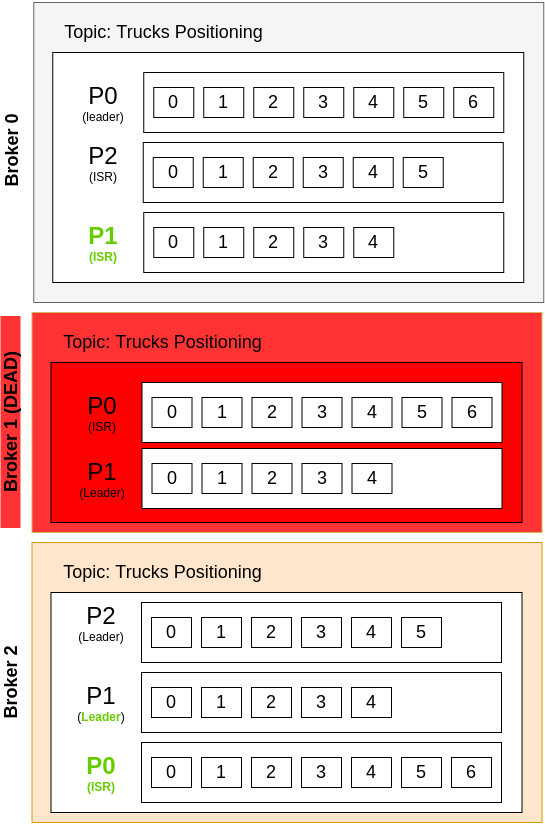
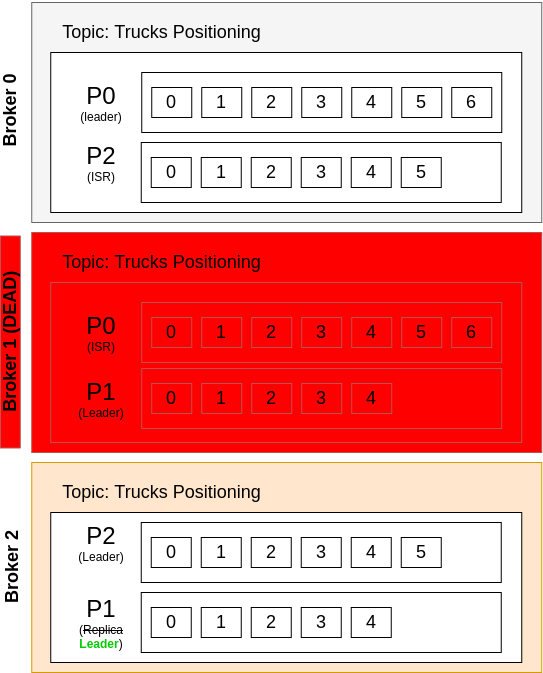
Update Kafka Concepts page (broker failure)

diff --git a/_posts/2020-10-09-Kafka-Core-Concepts.md b/_posts/2020-10-09-Kafka-Core-Concepts.md
@@ -146,7 +146,7 @@ how many partitions a topic must have - and why.
 The number of partitions in a topic is important for performance. With only
 one partition, you cannot use multiple threads to read the data - if you do,
 you'll read repetitions. But if you split your 10,000 messages in three
-partitions, for instance, then you could read data in paralellel (in three
+partitions, for instance, then you could read data in parallel (in three
 threads), and this will improve your throughput.
 
 This approach *(performance enhancement when reading data "splitted" in
@@ -208,10 +208,12 @@ from the others.
 
 
 Some notes regarding the logic of message distribution in partitions:
-- The `murmur3` algorithm is based on the number of partitions of a topic. So,
-if it's important to maintain order (and, hence, you're using Message Keys for
-that), make sure that the number of partitions of your topic do not change.
-- It is also possible to overwrite the algorithm behavior (change `murmur3` for
+- The [MurmurHash3](https://en.wikipedia.org/wiki/MurmurHash) algorithm is
+based on the number of partitions of a topic. So, if it's important to maintain
+order (and, hence, you're using Message Keys for that), make sure that the
+number of partitions of your topic do not change.
+- It is also possible to overwrite the algorithm behavior (change
+[MurmurHash3](https://en.wikipedia.org/wiki/MurmurHash) for
 something else), by overwriting the Kafka `TopicPartition` class.
 - You can also to explicit define which data goes to which partition of a topic,
 when writing the producer client. You have to use the API for that.
@@ -247,7 +249,7 @@ Let's consider the previous mentioned Trucks Positioning Topic:
 Figure 8: Topics, Partitions and Offsets In a Single Broker - revisited.
 {:.figcaption}
 
-In a single broker, if is goes down or the disk is corrupted, this topic will
+In a single broker, if it goes down or the disk is corrupted, this topic will
 be gone. But let's consider this same topic using **replication factor of two**
 with **three brokers**:
 
@@ -280,7 +282,10 @@ It is not possible to have a Replication Factor number higher than the number
 of brokers - and there will always be a single replication factor, as a minimum.
 For instance, consider **four brokers**: the replication factor must
 be `>= 1 and <= 4`. And consider a **single broker**: the same rule applies
-(replication factor `>= 1 and <= 1` => must be always `1`).
+(replication factor `>= 1 and <= 1` => must be always `1`). If you try to
+create a topic with the wrong number of replication factor, Kafka will throw
+a `org.apache.kafka.common.errors.InvalidReplicationFactorException:
+Replication factor: ? larger than available brokers: ?.`.
 {:.note}
 
 
@@ -317,6 +322,18 @@ A **In-Sync Replica** is a Replica Partition that is definitely in sync with
 the Leader Partition. In the Figure 9, the Partitions `P2` in Broker `0` and
 `P0` in Broker `1` are in sync.
 
+This information (partition, leaders, replicas and isr) can be seen when we
+describe a topic, as below:
+
+```bash
+ubuntu@ip-x:~$ ./kafka/bin/kafka-topics.sh --zookeeper zookeeper1:2181/kafka
+  --topic trucks-positioning --describe
+Topic: trucks-positioning    PartitionCount: 3       ReplicationFactor: 2    Configs:
+        Topic: teste    Partition: 0    Leader: 0       Replicas: 0,1   Isr: 0,1
+        Topic: teste    Partition: 1    Leader: 1       Replicas: 1,2   Isr: 2,1
+        Topic: teste    Partition: 2    Leader: 2       Replicas: 0,2   Isr: 0,2
+```
+
 Some notes on this regard:
 - A Partition Leader is also a Replica, but with a more important function. So,
 in a topic of three partitions, for instance, there will be three Replicas,
@@ -330,15 +347,14 @@ time. More on that on Producers and Consumers section.
 #### What Happens if a Broker Fails? Rebalance and Replication of Data
 
 Kafka is able to detect that a Broker in a Cluster is no longer available,
-because kafka brokers exchange health check messages between each other.
+because Kafka brokers exchange health check messages between each other.
 
-When this detection happens, Kafka balances the cluster automatically:
-- In order to guarantee the replication factor number, Kafka will copy data to
-other available brokers
-- If the dead broker is a leader of some partition, so another broker is elected
-to be leader of that partition
+When this happens, Kafka will perform a Leader Election considering the remainer
+brokers. For each partition that was a Leader in the missing broker, Kafka
+will elect a new Leader of that partition in a different (live) broker.
+That way, partitions are still available to the clients.
 
-For instance, considering the Figure 9, let's assume that Broker 1 is down.
+For instance, considering the Figure 9, let's assume that Broker `1` is down.
 The result can be seen in Figure 10 (*with side effects in green*):
 
 ![](/assets/img/blog/kafka/kafka-cluster-broker-partitions-goes-down.png)
@@ -347,15 +363,63 @@ Figure 10: Replication of data when a broker goes down.
 {:.figcaption}
 
 In summary, what happens is the following:  
-- After some time, Kafka Brokers `0` and `2` understand that the Broker `1` is
-down
-- The Partition `P1` now only exists in Broker `2`, and Partition `P0` only
-exists in Broker `0`, but the replication factor of the topic is `2`. Hence,
-in order to maintain balance, `P1` is copied from Broker `2` to Broker `0`,
-and `P0` is copied from Broker `0` to Broker `2`.
-- The partition `P1` have no Leader, so new election happens, and Broker `2`
-is elected to be the Leader of `P1` until Broker `1` recovers. At this point,
-broker `2` is the leader of 2 out of 3 partitions - and that's OK.
+- After some time, Kafka Brokers `0` and `2` realize that Broker `1` is
+down and, therefore, Partition `P1` no longer a has a Leader
+- A new Leader Election occur for `P1`. Since `P1` only exists in Broker `2`
+(and not in Broker `0`), the elected Broker Leader for `P1` is now Broker `2`.
+- In this scenario, the Partition `P2` still maintain in-sync replica of two
+(because exists in Broker `0` and Broker `2`), but Partitions `P0` and `P1`
+only exists in a single Broker (since Broker `1` is dead), and for those, the
+in-sync replicas are now only one. Kafka will not rebalance data in order to
+"force" anything - it will wait for Broker `1` to recover and will remain
+with `2` replicas and `1` in sync replica for these.
+
+This can be seen when describing the same topic again:
+
+```bash
+ubuntu@ip-x:~$ ./kafka/bin/kafka-topics.sh --zookeeper zookeeper1:2181/kafka
+  --topic trucks-positioning --describe
+Topic: trucks-positioning    PartitionCount: 3       ReplicationFactor: 2    Configs:
+        Topic: teste    Partition: 0    Leader: 0       Replicas: 0,1   Isr: 0
+        Topic: teste    Partition: 1    Leader: 2       Replicas: 1,2   Isr: 2
+        Topic: teste    Partition: 2    Leader: 2       Replicas: 0,2   Isr: 0,2
+```
+
+The Leaders have changed to reference only alive brokers (`0` and `2`), the
+replicas remain the same, and the ISRs references only alive brokers as well.
+
+But this still works - meaning that Kafka can respond to the clients properly,
+because we have a Leader for each partition of a topic.
+But what if both Brokers `1` and `2` both die?
+
+![](/assets/img/blog/kafka/kafka-cluster-broker-partitions-two-goes-down.png)
+
+Figure 11: Two goes down - only one broker left.
+{:.figcaption}
+
+In that case, the Partition `P1` is not available anymore, anywhere.
+Since there are no Leader for Partition `P1` anymore, producers and consumers
+will crash when trying to send and get data to the topic.
+
+When creating a topic, the number of active brokers must be equal or higher
+than the replication factor number (for instance, if replication factor is
+2, then you must have at least two brokers). But if one server goes down
+after a topic creation, it will still be working if there is a Leader for each
+partition (even if the number of brokers is less than replication factor).
+The replicas will remain the same - the ISRs are the ones that will be updated
+to the new situation.
+{:.note}
+
+```bash
+ubuntu@ip-x:~$ ./kafka/bin/kafka-topics.sh --zookeeper zookeeper1:2181/kafka
+  --topic trucks-positioning --describe
+Topic: trucks-positioning    PartitionCount: 3       ReplicationFactor: 2    Configs:
+        Topic: teste    Partition: 0    Leader: 0       Replicas: 0,1   Isr: 0
+        Topic: teste    Partition: 1    Leader: none    Replicas: 1,2   Isr: 2
+        Topic: teste    Partition: 2    Leader: 0       Replicas: 0,2   Isr: 0,2
+```
+
+There is no Leader for one partition, so this topic is not available to clients.
 
 #### The Ideal Number of Replication Factor for a Topic
 
